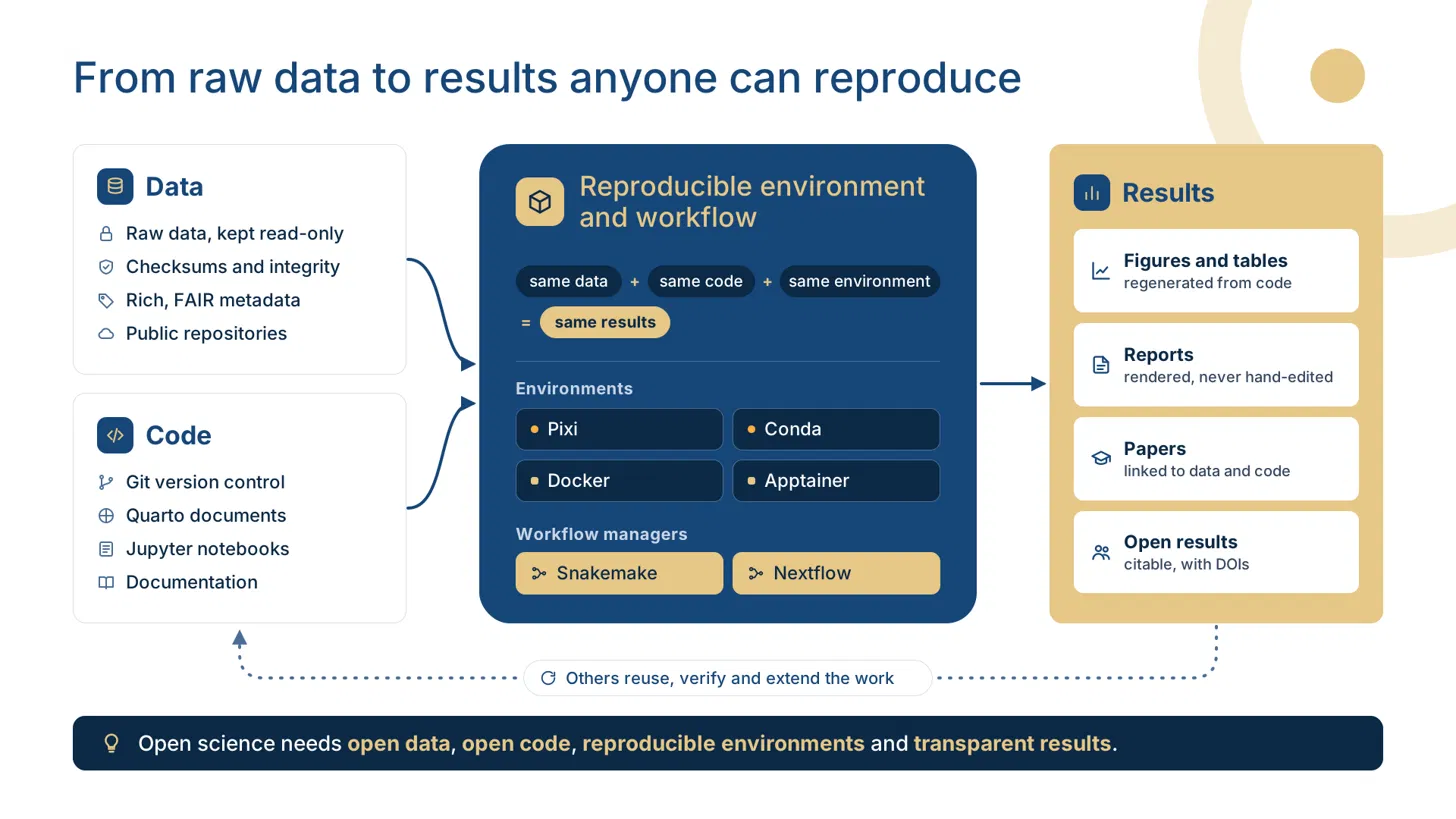
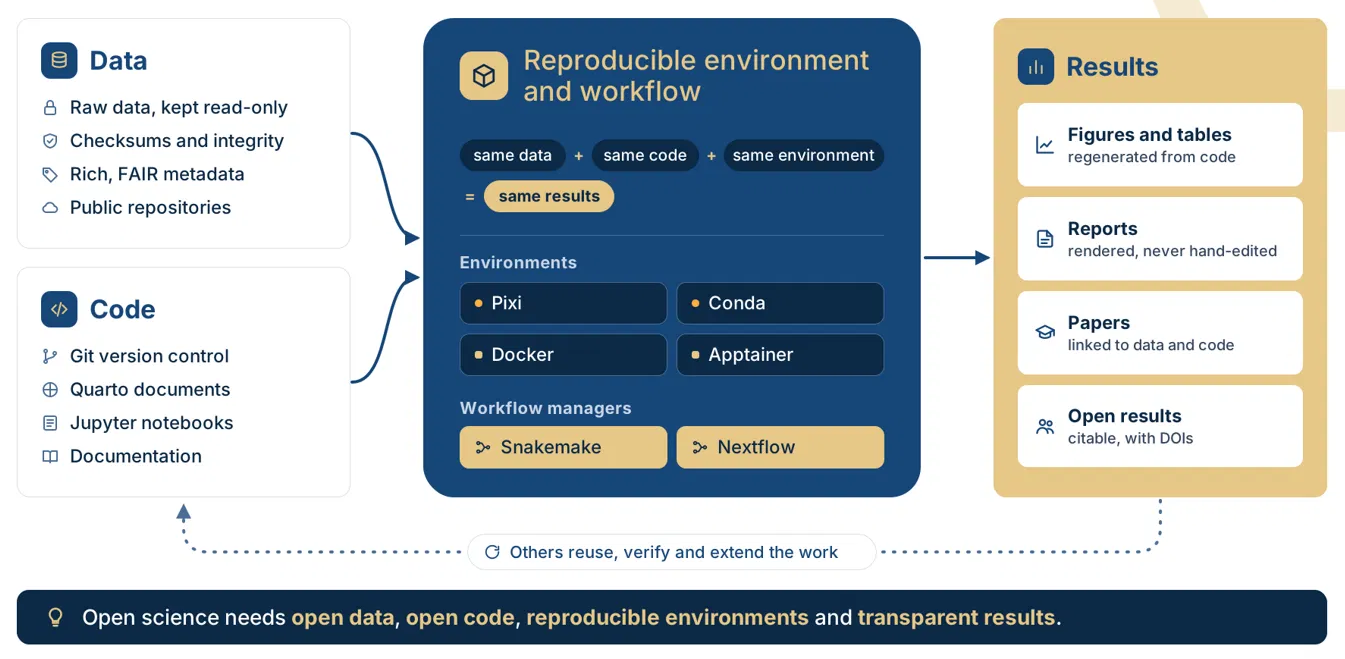
home page ui changed

diff --git a/assets/css/styles.scss b/assets/css/styles.scss
@@ -205,27 +205,23 @@ details > summary { font-weight: 600; cursor: pointer; }
 .btn { border-radius: 8px; font-weight: 600; padding: 0.5rem 1rem; }
 
 // Home page (index.qmd). Colors come from the theme tokens, so it follows
-// light and dark mode; only the "What you will build" panel and the figure's
-// white card look the same in both.
+// light and dark mode; only the figure's white card looks the same in both.
 $home-gold: #e5c687;    // the light navbar
-$home-panel: #154678;
-$home-overlap: 2.5rem; // how far the quick links reach up into the hero
 
 .home { max-width: 1100px; margin: 0 auto; padding-bottom: 1rem; }
 // !important: Quarto sets 1rem on the first h2 of a section on phones
 #quarto-content .home h2 { margin: 3.25rem 0 1rem !important; }
 #quarto-content .home h3 { margin: 0 0 0.45rem; font-size: 1.1rem; }
 
-// Hero: a band across the whole screen, right under the navbar. Inside it,
-// title and buttons with the panel beside them (below on narrow screens),
-// lined up with the rest of the page. The extra space at the bottom is for
-// the quick links.
+// Hero: a plain band across the whole screen, right under the navbar.
+// Inside it, title and buttons with the "At a glance" card beside them (below
+// on narrow screens), lined up with the rest of the page.
 body.home-page #quarto-content > main.content { margin-top: 0; padding-top: 0; }
 body.home-page #title-block-header { display: none; }
 .home-hero {
-  padding: clamp(1.75rem, 3.5vw, 2.5rem) 0 calc(clamp(1.75rem, 3.5vw, 2.5rem) + #{$home-overlap});
+  padding: 2.25rem 0;
   border-bottom: 1px solid $border-subtle;
-  background: linear-gradient(120deg, rgba($home-gold, 0.14), rgba($home-gold, 0.04) 55%, transparent), $surface;
+  background: $surface;
 }
 .home-hero-inner {
   display: grid;
@@ -235,7 +231,7 @@ body.home-page #title-block-header { display: none; }
   width: min(1100px, calc(100% - 3rem));
   margin: 0 auto;
 }
-.home-kicker, .home-card-kicker, .home-aside-label {
+.home-kicker, .home-card-kicker, .home-glance-label {
   font-size: 0.78rem;
   font-weight: 600;
   letter-spacing: 0.08em;
@@ -243,67 +239,27 @@ body.home-page #title-block-header { display: none; }
   color: $primary;
 }
 .home-hero h1 {
-  font-size: clamp(2.2rem, 4.4vw, 3.5rem);
-  font-weight: 750;
-  letter-spacing: -0.035em;
-  line-height: 1.08;
-  margin: 0.5rem 0 1rem;
+  font-size: clamp(2rem, 3.6vw, 2.75rem);
+  font-weight: 700;
+  letter-spacing: -0.02em;
+  line-height: 1.15;
+  margin: 0.45rem 0 0.8rem;
 }
-.home-lead { display: block; color: $muted; font-size: 1.2rem; line-height: 1.5; margin-bottom: 0.5rem; }
+.home-subtitle { display: block; max-width: 40rem; margin-bottom: 1.1rem; color: $muted; font-size: 1.12rem; line-height: 1.55; }
 .home-hero .btn { margin: 0.35rem 0.5rem 0.35rem 0; }
 // With a Register button first, "Set up your computer" steps back to an outline
 .home-hero .home-register ~ .btn-primary { @include button-outline-variant($primary); }
 
-.home-aside {
-  padding: 1.25rem 1.25rem;
-  border-radius: 16px;
-  background: $home-panel;
-  color: #dfe8ec;
-  box-shadow: 0 16px 35px rgba(0, 0, 0, 0.12);
-}
-.home-aside .home-aside-label { color: $home-gold; }
-#quarto-content .home-aside h3 { color: #fff; font-size: 1.3rem; margin: 0.35rem 0 0.9rem; }
-.home-aside ul { list-style: none; padding: 0; margin: 0 0 1rem; }
-.home-aside li {
-  position: relative;
-  padding: 0.32rem 0 0.32rem 1.5rem;
-  border-top: 1px solid rgba(#fff, 0.13);
-  font-size: 0.9rem;
-  line-height: 1.45;
-}
-.home-aside li::before { content: "✓"; position: absolute; left: 0.1rem; color: #b6d9c4; font-weight: 700; }
-.home-aside strong { color: #fff; }
-.home-command {
-  padding: 0.65rem 0.85rem;
-  border: 1px solid rgba(#fff, 0.14);
-  border-radius: 8px;
-  background: rgba(#fff, 0.07);
-}
-.home-command p { margin: 0; }
-.home-command p code:not(.sourceCode) { background: transparent; color: #e2f7e7; padding: 0; }
-.home-prompt { color: $home-gold; font-family: $font-family-monospace; margin-right: 0.5rem; }
-.home-aside-note { display: block; margin-top: 0.75rem; color: #c0ccd2; font-size: 0.8rem; line-height: 1.5; }
+// At a glance ({{< event glance >}}, and {{< event details >}}): one fact to
+// a row, label beside value
+.home-glance { padding: 1rem 1.25rem 0.4rem; border: 1px solid $border-subtle; border-radius: 12px; background: $body-bg; }
+.home-glance > p:first-child { margin-bottom: 0.3rem; }
+.event-fact + .event-fact { border-top: 1px solid $border-subtle; }
+.event-fact p { display: grid; grid-template-columns: 5.5rem minmax(0, 1fr); gap: 0.75rem; align-items: baseline; margin: 0; padding: 0.5rem 0; font-size: 0.93rem; }
+.event-fact-label { color: $muted; font-size: 0.85rem; font-weight: 600; }
 
-.home-details { margin-top: 1.25rem; }
-
-// Event details ({{< event details >}}, on a workshop's home page): two facts
-// to a row, one on phones; a lone last fact (the links) takes the whole row.
-.event-details {
-  display: grid;
-  grid-template-columns: repeat(2, minmax(0, 1fr));
-  column-gap: 2rem;
-  padding: 0 1.1rem;
-  border: 1px solid $border-subtle;
-  border-radius: 14px;
-}
-.event-fact:nth-child(n+3) { border-top: 1px solid $border-subtle; }
-.event-fact:last-child:nth-child(odd) { grid-column: 1 / -1; }
-.event-fact p { display: grid; grid-template-columns: 6.5rem minmax(0, 1fr); gap: 0.75rem; align-items: baseline; margin: 0; padding: 0.6rem 0; }
-.event-fact-label { color: $muted; font-size: 0.9rem; font-weight: 600; }
-
-// Quick links: one row of four that reaches up into the hero, two rows of two
-// on phones
-.home-quicklinks { position: relative; z-index: 1; margin-top: -$home-overlap; }
+// Quick links: one row of four under the hero, two rows of two on phones
+.home-quicklinks { margin-top: 1.75rem; }
 .home-quicklinks ul {
   display: grid;
   grid-template-columns: repeat(4, minmax(0, 1fr));
@@ -314,7 +270,6 @@ body.home-page #title-block-header { display: none; }
   border-radius: 14px;
   overflow: hidden;
   background: $body-bg;
-  box-shadow: 0 6px 20px $shadow-color;
 }
 .home-quicklinks li { margin: 0; border-left: 1px solid $border-subtle; }
 .home-quicklinks li:first-child { border-left: 0; }
@@ -350,6 +305,10 @@ a.home-quick:hover { background: $surface; }
 .home-figure img { display: block; width: 100%; max-width: 960px; margin: 0 auto; }
 .home-figure-caption { display: block; margin-top: 0.6rem; color: $muted; font-size: 0.85rem; }
 
+// What you will learn: two columns, one on phones
+.home-learn ul { columns: 2; column-gap: 2rem; padding-left: 1.2rem; }
+.home-learn li { break-inside: avoid; padding: 0.15rem 0; }
+
 .home-steps { display: grid; grid-template-columns: repeat(3, minmax(0, 1fr)); gap: 1rem; }
 .home-step { padding: 0.2rem 0.5rem 0.2rem 1.1rem; border-left: 2px solid $primary; }
 .home-step p { color: $muted; font-size: 0.93rem; margin: 0; }
@@ -378,10 +337,7 @@ a.home-quick:hover { background: $surface; }
   .home-quicklinks li:nth-child(-n+2) { border-bottom: 1px solid $border-subtle; }
   .home-footer { gap: 0; }
   .home-footer-side { padding-left: 0; border-left: 0; }
-  .event-details { grid-template-columns: minmax(0, 1fr); }
-  .event-fact + .event-fact { border-top: 1px solid $border-subtle; }
-  .event-fact p { grid-template-columns: minmax(0, 1fr); gap: 0; }
-  .event-fact-label { font-size: 0.8rem; }
+  .home-learn ul { columns: 1; }
 }
 
 // Screenshots: a thin frame so white pages do not melt into the background.
